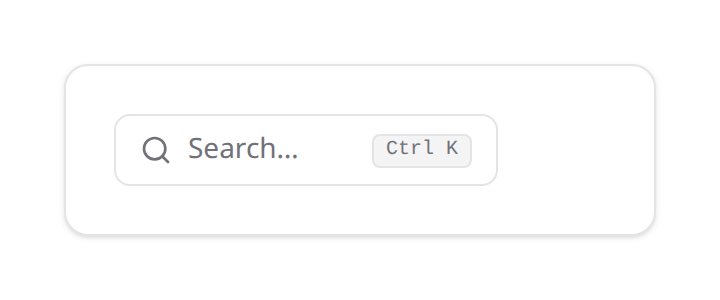
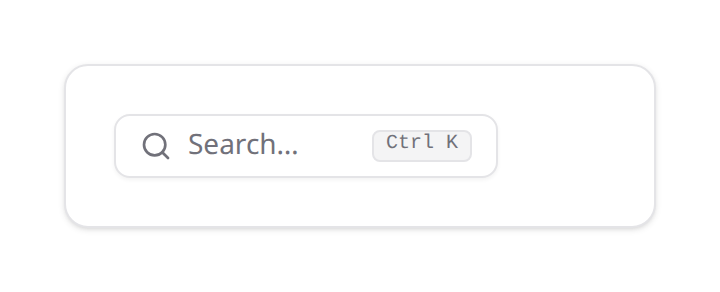
fix(ui): the header triggers now share one button recipe — a `ghost` notification bell and a hand-rolled 36px spotlight square were the two odd ones out on a narrow header; unread badges unified behind `triggerCountBadgeClass`; `announcements_unread_count` renamed to `unread_count`
Every header control is meant to be the same `outline` + `icon-sm` button, but
two weren't: the bell was borderless next to four bordered buttons, and the
collapsed spotlight trigger was a borderless 36px square — 4px taller than the
row it sits in, which is exactly where it shows, on a phone.

The two unread pills were also styled independently (18px vs 16px, different
offsets and cutoffs) while sitting side by side; they now share
`triggerCountBadgeClass` and are `aria-hidden`, with the count spoken by the
button's own label. The translation key moved with them: the bell uses the same
string, so `announcements_unread_count` is now `unread_count`.

Neither drift was visible in a component's own tests — only side by side. So:
`header-controls` and `header-controls-narrow` gallery specimens (the whole
strip, wide and sub-`sm`, the second full-page since media queries read the
viewport rather than the frame), a scan test pinning the recipe, and the strip
documented in installation.md. The gallery app gained Pinia so the
store-backed bell can render in it.

diff --git a/gallery/specimens.ts b/gallery/specimens.ts
@@ -25,6 +25,7 @@ import KinetixModeToggle from '@/components/KinetixModeToggle.vue';
 import KinetixAccessibilityMenu from '@/components/KinetixAccessibilityMenu.vue';
 import KinetixAnnouncementBanner from '@/components/KinetixAnnouncementBanner.vue';
 import KinetixAnnouncements from '@/components/KinetixAnnouncements.vue';
+import KinetixNotificationTrigger from '@/components/KinetixNotificationTrigger.vue';
 import KinetixLanguageSwitcher from '@/components/KinetixLanguageSwitcher.vue';
 import KinetixTeamSwitcher from '@/components/KinetixTeamSwitcher.vue';
 import KinetixOnlineUsers from '@/components/KinetixOnlineUsers.vue';
@@ -1593,6 +1594,23 @@ const customWidget = {
     data: {},
 };
 
+/**
+ * Every header trigger side by side, the way a real app header mounts them —
+ * the only place their shared button recipe can be checked at a glance.
+ */
+const HeaderControls: Component = {
+    name: 'HeaderControls',
+    render: () =>
+        h('div', { class: 'flex items-center justify-end gap-2' }, [
+            h(KinetixSpotlightTrigger),
+            h(KinetixNotificationTrigger),
+            h(KinetixAnnouncements),
+            h(KinetixAccessibilityMenu),
+            h(KinetixModeToggle),
+            h(KinetixLanguageSwitcher),
+        ]),
+};
+
 export const specimens: Specimen[] = [
     {
         name: 'wizard-stepper',
@@ -2162,6 +2180,25 @@ export const specimens: Specimen[] = [
         component: KinetixAnnouncements,
         width: 420,
         openSelector: '#specimen button',
+    },
+    {
+        // The whole header row in one shot: every trigger is the same `outline`
+        // + `icon-sm` button, so drift (a borderless bell, a taller search box)
+        // is visible at a glance instead of only in a running app.
+        name: 'header-controls',
+        title: 'Header controls (one row)',
+        component: HeaderControls,
+        width: 620,
+        frame: 'card',
+    },
+    {
+        name: 'header-controls-narrow',
+        title: 'Header controls (narrow / mobile)',
+        component: HeaderControls,
+        // Media queries read the VIEWPORT, not the frame — a full-page capture
+        // is the only way to see the sub-`sm` rendering.
+        width: 320,
+        fullPage: true,
     },
     {
         name: 'announcement-banner',

diff --git a/resources/js/components/KinetixNotificationTrigger.vue b/resources/js/components/KinetixNotificationTrigger.vue
@@ -1,27 +1,42 @@
 <script setup lang="ts">
 import { Bell } from '@lucide/vue';
 import { storeToRefs } from 'pinia';
+import { computed } from 'vue';
 import { useI18n } from 'vue-i18n';
-import { buttonVariants } from '@/composables/useKinetixShadcnVariants';
+import {
+    buttonVariants,
+    triggerCountBadgeClass,
+} from '@/composables/useKinetixShadcnVariants';
 import { useNotificationsStore } from '@/stores/kinetixNotifications';
 
 const store = useNotificationsStore();
 const { unreadCount } = storeToRefs(store);
 const { t } = useI18n();
+
+/** The badge is a number on screen; the trigger has to say what it counts. */
+const label = computed(() =>
+    unreadCount.value > 0
+        ? `${t('kinetix.notifications')} — ${t('kinetix.unread_count', { count: unreadCount.value })}`
+        : t('kinetix.notifications'),
+);
 </script>
 
 <template>
+    <!-- `outline` + `icon-sm`, like every other header trigger (announcements,
+         accessibility, dark mode, language) — a `ghost` bell was the odd one
+         out, sitting borderless next to four bordered buttons. -->
     <button
         type="button"
-        :class="buttonVariants({ variant: 'ghost', size: 'icon-sm' })"
+        :class="buttonVariants({ variant: 'outline', size: 'icon-sm' })"
         class="relative"
-        :aria-label="t('kinetix.notifications')"
+        :aria-label="label"
         @click="store.toggleDrawer"
     >
         <Bell class="size-[1.2rem]" />
         <span
             v-if="unreadCount > 0"
-            class="-top-1 -right-1 px-1 font-semibold absolute flex min-w-[18px] items-center justify-center rounded-full bg-primary text-[10px] leading-[18px] text-primary-foreground"
+            aria-hidden="true"
+            :class="triggerCountBadgeClass"
         >
             {{ unreadCount > 99 ? '99+' : unreadCount }}
         </span>

diff --git a/tests/js/headerTriggers.spec.ts b/tests/js/headerTriggers.spec.ts
@@ -1,0 +1,44 @@
+import fs from 'node:fs';
+import path from 'node:path';
+import { describe, expect, it } from 'vitest';
+
+/**
+ * The header triggers all sit in the same strip of an app header, so they share
+ * ONE button recipe: `buttonVariants({ variant: 'outline', size: 'icon-sm' })`.
+ *
+ * They drifted twice before this scan: the notification bell was a `ghost`
+ * button (no border, next to four bordered ones) and the spotlight trigger
+ * hand-rolled `h-9 w-9` with no border, so it was 4px taller than the row it
+ * lived in. Neither is visible in a unit test of the component itself — only
+ * side by side, which is what this file stands in for.
+ */
+const componentsDir = path.resolve(__dirname, '../../resources/js/components');
+
+const TRIGGERS = [
+    'KinetixAnnouncements.vue',
+    'KinetixAccessibilityMenu.vue',
+    'KinetixModeToggle.vue',
+    'KinetixNotificationTrigger.vue',
+    'KinetixSpotlightTrigger.vue',
+    'LanguageSwitcher/LanguageDropdown.vue',
+];
+
+const read = (file: string): string =>
+    fs.readFileSync(path.join(componentsDir, file), 'utf8');
+
+describe('header trigger buttons', () => {
+    it.each(TRIGGERS)('%s builds on the shared button recipe', (file) => {
+        const source = read(file);
+
+        expect(source).toContain('buttonVariants(');
+        expect(source).toContain("variant: 'outline'");
+        expect(source).toContain("'icon-sm'");
+    });
+
+    it.each(['KinetixAnnouncements.vue', 'KinetixNotificationTrigger.vue'])(
+        '%s pins its unread badge with the shared class',
+        (file) => {
+            expect(read(file)).toContain('triggerCountBadgeClass');
+        },
+    );
+});

diff --git a/resources/js/components/KinetixSpotlightTrigger.vue b/resources/js/components/KinetixSpotlightTrigger.vue
@@ -3,6 +3,7 @@ import { Search } from '@lucide/vue';
 import { computed } from 'vue';
 import { useI18n } from 'vue-i18n';
 import { isMac } from '@/composables/useKinetixHotkeys';
+import { buttonVariants } from '@/composables/useKinetixShadcnVariants';
 
 /**
  * Header trigger for the Spotlight command palette — pair it with
@@ -20,11 +21,19 @@ function open(): void {
 </script>
 
 <template>
+    <!-- Collapsed, this is a header trigger like any other: the SAME `outline`
+         + `icon-sm` button as announcements, notifications, accessibility, dark
+         mode and language — it used to be a borderless 36px square, so it read
+         as a different control and sat 4px taller than the row. From `sm` up
+         the same surface just grows into a search box. -->
     <button
         type="button"
         :aria-label="t('kinetix.spotlight_placeholder')"
         :title="`${t('kinetix.spotlight_placeholder')} (${shortcut})`"
-        class="gap-2 h-9 w-9 sm:h-9 sm:w-auto sm:min-w-[12rem] sm:justify-start sm:border sm:border-input sm:bg-background sm:px-3 sm:hover:bg-accent/50 flex items-center justify-center rounded-md text-muted-foreground transition-colors hover:bg-accent focus:outline-none focus-visible:ring-[3px] focus-visible:ring-ring/50"
+        :class="[
+            buttonVariants({ variant: 'outline', size: 'icon-sm' }),
+            'font-normal sm:w-auto sm:min-w-[12rem] sm:justify-start sm:px-3 text-muted-foreground',
+        ]"
         @click="open"
     >
         <Search class="h-4 w-4 shrink-0" />

diff --git a/resources/js/composables/useKinetixShadcnVariants.ts b/resources/js/composables/useKinetixShadcnVariants.ts
@@ -126,6 +126,17 @@ export function badgeVariants(
     return `${BADGE_BASE} ${BADGE_VARIANTS[variant]}`;
 }
 
+/**
+ * The unread-count pill pinned to a header trigger (notifications, "what's
+ * new"). One recipe, because these buttons sit side by side in the same header
+ * — two badges of different sizes on adjacent icons reads as a bug.
+ *
+ * Pair it with `aria-hidden`: the count belongs in the button's own
+ * `aria-label`, not as a loose number for a screen reader to read out.
+ */
+export const triggerCountBadgeClass =
+    'absolute -top-1 -right-1 flex min-w-[18px] items-center justify-center rounded-full bg-primary px-1 text-[10px] leading-[18px] font-semibold text-primary-foreground';
+
 /** shadcn-vue new-york-v4 input field classes. */
 export const inputClass =
     'file:text-foreground placeholder:text-muted-foreground selection:bg-primary selection:text-primary-foreground dark:bg-input/30 border-input h-9 w-full min-w-0 rounded-md border bg-transparent px-3 py-1 text-base shadow-xs transition-[color,box-shadow] outline-none file:inline-flex file:h-7 file:border-0 file:bg-transparent file:text-sm file:font-medium disabled:pointer-events-none disabled:cursor-not-allowed disabled:opacity-50 md:text-sm focus-visible:border-ring focus-visible:ring-ring/50 focus-visible:ring-[3px] aria-invalid:ring-destructive/20 dark:aria-invalid:ring-destructive/40 aria-invalid:border-destructive';

diff --git a/resources/js/components/KinetixAnnouncements.vue b/resources/js/components/KinetixAnnouncements.vue
@@ -12,7 +12,10 @@ import {
     useKinetixAnnouncementFormat,
     useKinetixAnnouncements,
 } from '@/composables/useKinetixAnnouncements';
-import { buttonVariants } from '@/composables/useKinetixShadcnVariants';
+import {
+    buttonVariants,
+    triggerCountBadgeClass,
+} from '@/composables/useKinetixShadcnVariants';
 import ScrollArea from './primitives/ScrollArea.vue';
 
 /**
@@ -29,7 +32,7 @@ const open = ref(false);
 /** The badge is a number on screen; the trigger has to say what it counts. */
 const triggerLabel = computed(() =>
     unread.value > 0
-        ? `${t('kinetix.announcements_title')} — ${t('kinetix.announcements_unread_count', { count: unread.value })}`
+        ? `${t('kinetix.announcements_title')} — ${t('kinetix.unread_count', { count: unread.value })}`
         : t('kinetix.announcements_title'),
 );
 
@@ -55,9 +58,9 @@ function onOpen(next: boolean): void {
             <span
                 v-if="unread > 0"
                 aria-hidden="true"
-                class="-top-1.5 -right-1.5 min-w-4 px-1 font-semibold absolute flex items-center justify-center rounded-full bg-primary text-[10px] text-primary-foreground"
+                :class="triggerCountBadgeClass"
             >
-                {{ unread > 9 ? '9+' : unread }}
+                {{ unread > 99 ? '99+' : unread }}
             </span>
         </PopoverTrigger>
 

diff --git a/gallery/main.ts b/gallery/main.ts
@@ -1,3 +1,4 @@
+import { createPinia } from 'pinia';
 import { createApp, defineComponent, h } from 'vue';
 import { createI18n } from 'vue-i18n';
 import { Toaster } from 'vue-sonner';
@@ -75,4 +76,7 @@ const app = createApp({
         h('div', { style: 'display:inline-block' }, [h(Frame), h(Toaster)]),
 });
 app.use(i18n);
+// Store-backed components (the notification trigger reads its unread count from
+// a Pinia store) need one too.
+app.use(createPinia());
 app.mount('#app');

diff --git a/resources/lang/ru/kinetix.php b/resources/lang/ru/kinetix.php
@@ -252,7 +252,7 @@ return [
     'announcements_play'               => 'Возобновить прокрутку',
     'announcements_slide_position'     => '{current} из {total}',
     'announcements_go_to'              => 'Показать: {title}',
-    'announcements_unread_count'       => 'Непрочитанных: {count}',
+    'unread_count'                     => 'Непрочитанных: {count}',
     'save'                             => 'Сохранить',
     'select_all'                       => 'Выбрать все',
     'search_permissions'               => 'Поиск прав…',

diff --git a/resources/lang/ja/kinetix.php b/resources/lang/ja/kinetix.php
@@ -252,7 +252,7 @@ return [
     'announcements_play'               => '自動切り替えを再開',
     'announcements_slide_position'     => '{total} 件中 {current} 件目',
     'announcements_go_to'              => '表示: {title}',
-    'announcements_unread_count'       => '未読 {count} 件',
+    'unread_count'                     => '未読 {count} 件',
     'save'                             => '保存',
     'select_all'                       => 'すべて選択',
     'search_permissions'               => '権限を検索…',

diff --git a/resources/lang/zh/kinetix.php b/resources/lang/zh/kinetix.php
@@ -252,7 +252,7 @@ return [
     'announcements_play'               => '继续轮播',
     'announcements_slide_position'     => '第 {current} 条，共 {total} 条',
     'announcements_go_to'              => '显示：{title}',
-    'announcements_unread_count'       => '{count} 条未读',
+    'unread_count'                     => '{count} 条未读',
     'save'                             => '保存',
     'select_all'                       => '全选',
     'search_permissions'               => '搜索权限…',

diff --git a/resources/lang/fr/kinetix.php b/resources/lang/fr/kinetix.php
@@ -277,7 +277,7 @@ return [
     'announcements_play'           => 'Reprendre le défilement',
     'announcements_slide_position' => '{current} sur {total}',
     'announcements_go_to'          => 'Afficher : {title}',
-    'announcements_unread_count'   => '{count} non lus',
+    'unread_count'                 => '{count} non lus',
 
     // Rôles et permissions
     'save'                        => 'Enregistrer',

diff --git a/resources/lang/pt/kinetix.php b/resources/lang/pt/kinetix.php
@@ -277,7 +277,7 @@ return [
     'announcements_play'           => 'Retomar a rotação',
     'announcements_slide_position' => '{current} de {total}',
     'announcements_go_to'          => 'Mostrar: {title}',
-    'announcements_unread_count'   => '{count} não lidos',
+    'unread_count'                 => '{count} não lidos',
 
     // Papéis e permissões
     'save'                        => 'Salvar',
